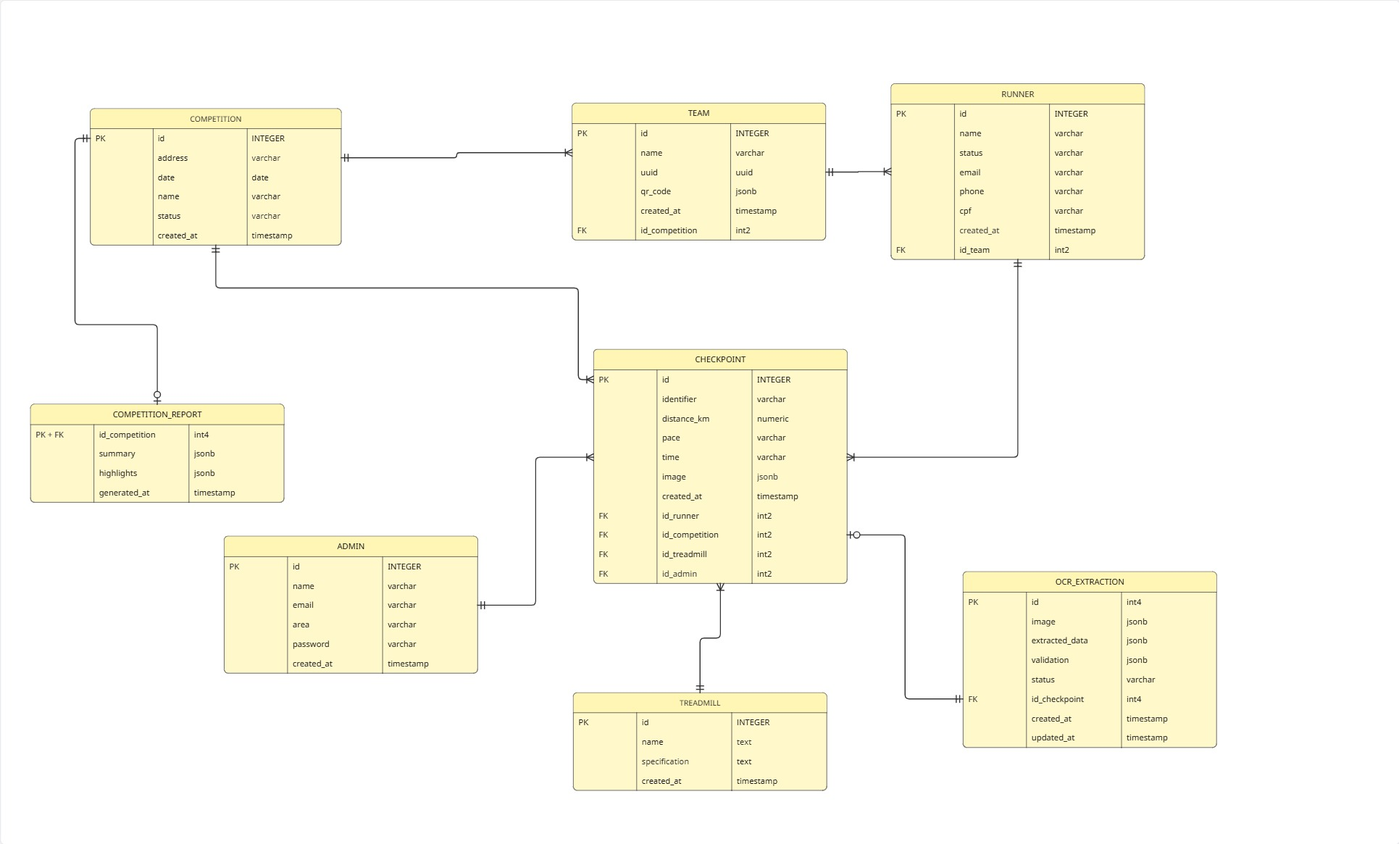
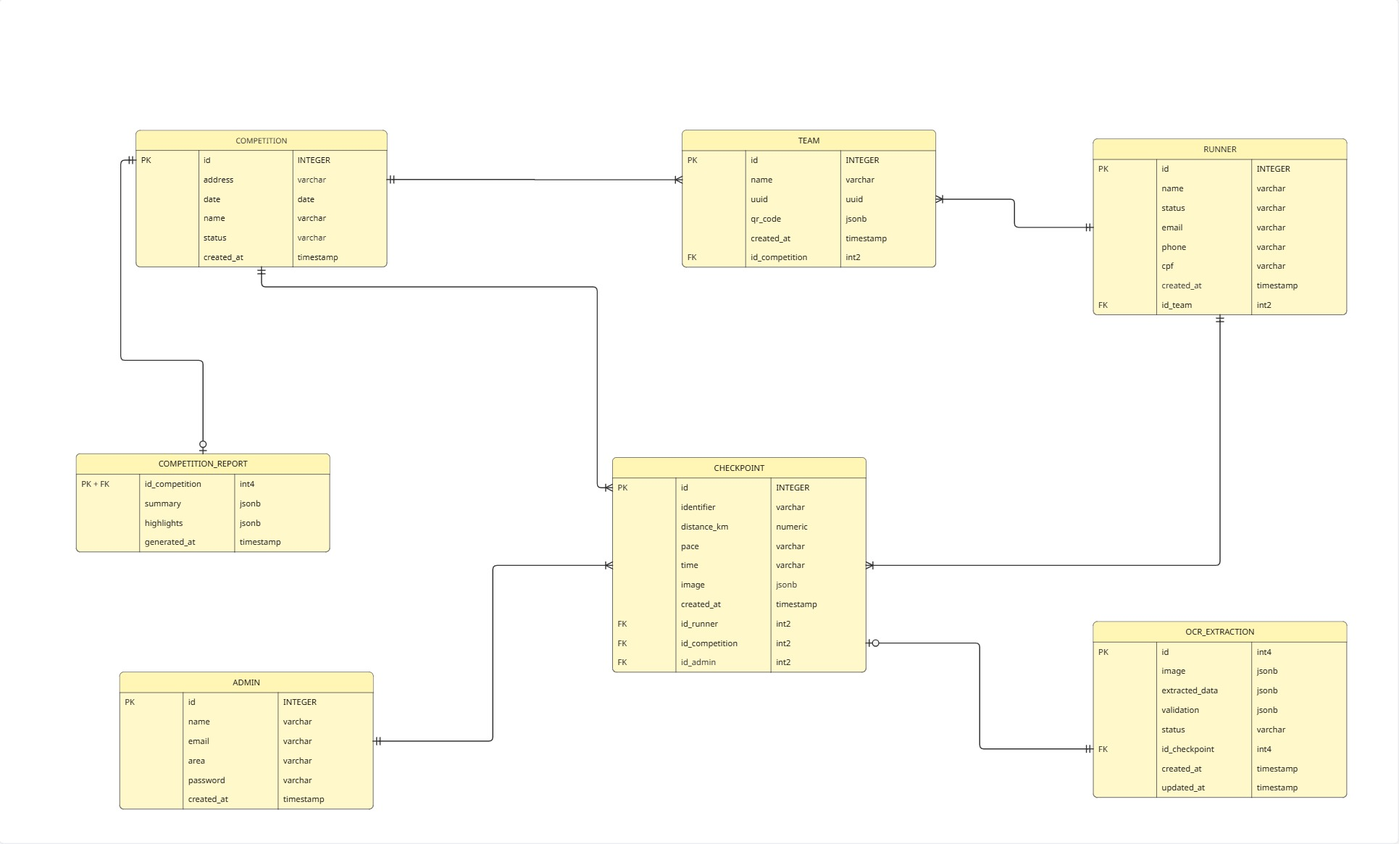
docs(#545): Retira entidade Treadmill
Esse commit tem como objetivo retirar a entidade treadmill das seções 3.6.1, 3.6.2, 3.6.3.1 e 3.6.3.2, que apesar de ter um backend implemenado, funcionava até o momento como uma entidade fantasma, que não havia de fato uma função no sistema

Refs #545

diff --git a/documentos/wad.md b/documentos/wad.md
@@ -2225,7 +2225,7 @@ O relacionamento entre entidades é feito por meio de uma linha que contém as c
 | -------- | --------- | --------- |  
 | 1:1 | Um para Um | Cada Team possui exatamente um UUID de acesso |
 | 1:N | Um para Muitos | Uma Competition possui vários Teams, mas cada Team pertence a uma única Competition |
-| N:N | Muitos para Muitos | No modelo conceitual, `Runner` e `Treadmill` se relacionam N:N (cada corredor usa várias esteiras ao longo das 24h e cada esteira recebe vários corredores). No modelo lógico, essa relação é materializada na entidade associativa `Checkpoint`, com atributos próprios (`distance_km`, `pace`, `time`) |
+| N:N | Muitos para Muitos | No modelo conceitual, Admin e Runner se relacionam N:N (um administrador registra checkpoints de vários corredores e cada corredor pode ter registros de vários administradores). No modelo lógico, essa relação é materializada na entidade associativa Checkpoint, com atributos próprios (distance_km, pace, time) |
 
 <div align="center">
   <sup>Fonte: Elaborado pelos autores (2026).</sup>
@@ -2238,8 +2238,6 @@ A seguir, a Figura 57 ilustra o Modelo Entidade-Relacionamento desenvolvido para
     <img src="../assets/modelo_er.png" width="100%" alt="Representação do Modelo Entidade Relacionamento"><br>
       <sup>Fonte: Elaborado pelos autores (2026).</sup>
 </div> 
-
-**Observação sobre o diagrama:** por limitação da ferramenta de origem, a figura acima reflete o núcleo conceitual com seis entidades. Em caso de divergência visual, prevalecem os nomes do dicionário de dados e da implementação física (Seção 3.6.3): `address` (grafia correta de "adress"), `phone` (em vez de "phone_number"), `Runner` e `Admin`. Além dessas seis entidades, o modelo contempla `OcrExtraction` e `CompetitionReport`, descritas no dicionário de dados a seguir (Quadros 38A e 38B) e representadas no Modelo Relacional (Seção 3.6.3.1).
 
 
 #### Descrição das entidades e relacionamentos
@@ -2255,9 +2253,8 @@ A seguir, o Quadro 26 apresenta cada entidade, seu papel e os relacionamentos qu
 | Competition | Representa o evento Red Bull 24h, raiz do modelo | Possui N Teams (1:N); possui N Checkpoints (1:N) |
 | Team | Agrupa corredores de uma mesma competição | Pertence a 1 Competition (obrigatório); possui N Runners (1:N) |
 | Runner | Corredor participante vinculado a uma equipe | Pertence a 1 Team (obrigatório); possui N Checkpoints (1:N) |
-| Checkpoint | Registro de desempenho do corredor na esteira | Pertence obrigatoriamente a 1 Runner, 1 Competition, 1 Treadmill e 1 Admin (todas as associações são obrigatórias) |
+| Checkpoint | Registro de desempenho do corredor durante a prova | Pertence obrigatoriamente a 1 Runner, 1 Competition e 1 Admin (todas as associações são obrigatórias) |
 | Admin | Operador responsável por registrar checkpoints | Possui N Checkpoints (1:N) |
-| Treadmill | Esteira onde a corrida é realizada | Possui N Checkpoints (1:N) |
 | OcrExtraction | Armazena imagens e dados extraídos por OCR para validação | Pertence opcionalmente a 1 Checkpoint (0..1) |
 | CompetitionReport | Relatório consolidado e highlights da competição | Pertence a 1 Competition (relação 1:1) |
 
@@ -2276,7 +2273,7 @@ A seguir, o Quadro 32 exemplifica os elementos da notação de Chen utilizados n
 
 | Elemento |  Símbolo  | Aplicação ao MER |
 | -------- | --------- | ---------------- |
-| Entidade | Retângulo | `Competition`, `Team`, `Runner`, `Checkpoint`, `Admin` e `Treadmill` |
+| Entidade | Retângulo | `Competition`, `Team`, `Runner`, `Checkpoint` e `Admin` |
 | Atributo | Elipse    | `address` em `Competition`, `cpf` em `Runner` |
 | Relacionamento | Losango | `Team` possui `Runner` |
 | Cardinalidade | 1, N nas arestas | Um `Runner` possui N `Checkpoints` |
@@ -2364,7 +2361,6 @@ Por meio de quadros, serão detalhadas todas as entidades, listando seus atribut
 | Checkpoint | `image` | JSONB | Não | — | Foto ou metadados da evidência capturada |
 | Checkpoint | `id_runner` | Chave estrangeira | Sim | FK → `Runner` (ON DELETE RESTRICT) | Vincula o checkpoint ao corredor |
 | Checkpoint | `id_competition` | Chave estrangeira | Sim | FK → `Competition` (ON DELETE RESTRICT) | Vincula o checkpoint à competição |
-| Checkpoint | `id_treadmill` | Chave estrangeira | Sim | FK → `Treadmill` (ON DELETE RESTRICT) | Vincula o checkpoint à esteira |
 | Checkpoint | `id_admin` | Chave estrangeira | Sim | FK → `Admin` (ON DELETE RESTRICT) | Vincula o checkpoint ao admin responsável |
 | Checkpoint | `created_at` | Data/Hora | Sim | Padrão: data/hora atual | Data e horário em que o registro foi inserido no sistema |
 
@@ -2386,23 +2382,6 @@ Por meio de quadros, serão detalhadas todas as entidades, listando seus atribut
 | Admin | `area` | Texto | Não | — | Área de atuação do admin |
 | Admin | `password` | Texto (hash) | Sim | — | Hash da credencial de acesso ao painel administrativo (a senha em texto puro nunca é armazenada) |
 | Admin | `created_at` | Data/Hora | Sim | Padrão: data/hora atual | Data e horário em que o registro foi inserido no sistema |
-
-<div align="center">
-  <sup>Fonte: Elaborado pelos autores (2026).</sup>
-</div> 
-
-- O Quadro 38 representa o dicionário de dados da entidade Esteira.
-
-<div align="center">
-  <sub>Quadro 38 - Dicionário de Dados da Entidade Esteira </sub>
-</div>
-
-| Entidade | Atributo | Tipo semântico | Obrigatório | Restrições / Chave | Descrição |
-| -------- | --------- | -------------- | ----------- | ------------------ | --------- |
-| Treadmill | `id` | Identificador | Sim | Chave primária (PK) | Identifica unicamente cada esteira |
-| Treadmill | `name` | Texto | Sim | CHECK: não vazio | Nome ou apelido da esteira |
-| Treadmill | `specification` | Texto | Não | — | Descrição técnica do equipamento |
-| Treadmill | `created_at` | Data/Hora | Sim | Padrão: data/hora atual | Data e horário em que o registro foi inserido no sistema |
 
 <div align="center">
   <sup>Fonte: Elaborado pelos autores (2026).</sup>
@@ -2454,7 +2433,7 @@ Além dos atributos, o modelo é governado por regras de integridade definidas n
 
 - **Unicidade:** os atributos `email` e `cpf` de `Runner`, `email` de `Admin`, `uuid` de `Team` e `identifier` de `Checkpoint` são únicos, impedindo registros duplicados.
 - **Domínios restritos (CHECK):** `status` de `Competition` aceita apenas `not_started`, `in_progress` ou `closed`; `status` de `Runner` aceita apenas `runner` ou `captain`; `status` de `OcrExtraction` aceita apenas `pending`, `processed`, `validated` ou `rejected`; `distance_km` deve estar entre 0 e 1000; `cpf`, `email`, `pace` e `time` seguem formatos pré-definidos.
-- **Obrigatoriedade das associações:** as chaves estrangeiras são, em regra, de preenchimento obrigatório, o que torna total a participação das entidades nos relacionamentos — todo `Team` pertence a uma `Competition`, todo `Runner` a um `Team` e todo `Checkpoint` a um `Runner`, uma `Competition`, uma `Treadmill` e um `Admin`. A única exceção é a associação de `OcrExtraction` com `Checkpoint`, opcional, pois `id_checkpoint` aceita valor nulo.
+- **Obrigatoriedade das associações:** as chaves estrangeiras são, em regra, de preenchimento obrigatório, o que torna total a participação das entidades nos relacionamentos — todo `Team` pertence a uma `Competition`, todo `Runner` a um `Team` e todo `Checkpoint` a um `Runner`, uma `Competition` e um `Admin`. A única exceção é a associação de `OcrExtraction` com `Checkpoint`, opcional, pois `id_checkpoint` aceita valor nulo.
 - **Integridade referencial:** em regra, não é permitido excluir um registro que ainda possua dependentes (ON DELETE RESTRICT) — por exemplo, uma `Competition` não pode ser removida enquanto houver `Teams` ou `Checkpoints` vinculados a ela. Há duas exceções intencionais: um `CompetitionReport` é removido em cascata junto com sua `Competition` (ON DELETE CASCADE) e a exclusão de um `Checkpoint` apenas anula o vínculo da extração OCR, sem removê-la (ON DELETE SET NULL).
 
 
@@ -2473,7 +2452,6 @@ A seguir, o Quadro 39 apresenta a rastreabilidade entre as entidades criadas com
 | Runner | RF003 | RN07 | 
 | Checkpoint | RF005, RF008 | RN04, RN05, RN12 |
 | Admin | RF004 | RN03 |
-| Treadmill | RF005 | — |
 | OcrExtraction | RF005, RF006, RF007, RF009 | RN05, RN06 |
 | CompetitionReport | RF014 | — |
 
@@ -2537,10 +2515,9 @@ Por meio dessa representação, é possível identificar de forma clara relaçõ
 | 2 | TEAM | RUNNER | 1 equipe tem muitos corredores (1:N) | Muitos corredores pertencem a 1 única equipe (N:1) |
 | 3 | RUNNER | CHECKPOINT | 1 corredor possui muitos checkpoints (1:N) | Muitos checkpoints pertencem a 1 único corredor (N:1) |
 | 4 | ADMIN | CHECKPOINT | 1 administrador supervisiona muitos checkpoints (1:N) | Muitos checkpoints são supervisionados por 1 único administrador (N:1) |
-| 5 | TREADMILL | CHECKPOINT | 1 esteira é usada em muitos checkpoints (1:N) | Muitos checkpoints usam 1 única esteira (N:1) |
-| 6 | COMPETITION | CHECKPOINT | 1 competição possui muitos checkpoints (1:N) | Muitos checkpoints pertencem a 1 única competição (N:1) |
-| 7 | CHECKPOINT | OCR_EXTRACTION | 1 checkpoint pode originar muitas extrações OCR (1:N, opcional) | Cada extração referencia no máximo 1 checkpoint (N:0..1) |
-| 8 | COMPETITION | COMPETITION_REPORT | 1 competição possui no máximo 1 relatório (1:0..1) | Cada relatório pertence a exatamente 1 competição (1:1) |
+| 5 | COMPETITION | CHECKPOINT | 1 competição possui muitos checkpoints (1:N) | Muitos checkpoints pertencem a 1 única competição (N:1) |
+| 6 | CHECKPOINT | OCR_EXTRACTION | 1 checkpoint pode originar muitas extrações OCR (1:N, opcional) | Cada extração referencia no máximo 1 checkpoint (N:0..1) |
+| 7 | COMPETITION | COMPETITION_REPORT | 1 competição possui no máximo 1 relatório (1:0..1) | Cada relatório pertence a exatamente 1 competição (1:1) |
 
 <div align="center">
   <sup>Fonte: Elaborado pelos autores (2026).</sup>
@@ -2558,12 +2535,10 @@ Por meio dessa representação, é possível identificar de forma clara relaçõ
 | Classe `Runner`                                  | Tabela `RUNNER`                     |
 | Classe `Admin`                               | Tabela `ADMIN`                |
 | Classe `Checkpoint`                                         | Tabela `CHECKPOINT`                   |
-| Classe `Treadmill`                                            | Tabela `TREADMILL`                      |
 | Associação `Competition` possui `Team`                     | FK `id_competition` em `TEAM`        |
 | Associação `Team` possui `Runner`                       | FK `id_team` em `RUNNER`          |
 | Associação `Runner` registra `Checkpoint`                 | FK `id_runner` em `CHECKPOINT`      |
 | Associação `Competition` possui `Checkpoint`                 | FK `id_competition` em `CHECKPOINT`    |
-| Associação `Treadmill` é usada em `Checkpoint`                | FK `id_treadmill` em `CHECKPOINT`       |
 | Associação `Admin` valida/supervisiona `Checkpoint` | FK `id_admin` em `CHECKPOINT` |
 | Classe/serviço `OCR` (OCRService / `Validação`)              | Tabela `OCR_EXTRACTION`               |
 | Associação `Checkpoint` origina `OcrExtraction`              | FK `id_checkpoint` em `OCR_EXTRACTION` |
@@ -2579,7 +2554,7 @@ Por meio dessa representação, é possível identificar de forma clara relaçõ
 
 O modelo relacional consiste em uma abordagem de organização e gerenciamento de dados baseada na representação das informações por meio de relações, normalmente implementadas como tabelas compostas por linhas e colunas. Esse modelo possibilita a definição de entidades, atributos e relacionamentos, além de mecanismos que garantem integridade, consistência e redução de redundâncias no armazenamento das informações. Sua estrutura fundamenta-se em conceitos como chaves primárias, chaves estrangeiras e restrições de integridade, permitindo representar de forma estruturada as regras de negócio de um sistema (Codd, 1970).
 
-No contexto deste projeto, o modelo relacional foi desenvolvido a partir dos requisitos funcionais e das regras de negócio levantadas nas etapas anteriores, com o objetivo de estruturar o armazenamento das informações referentes às competições, equipes, corredores, esteiras, registros de desempenho e processos de auditoria. A modelagem proposta busca garantir integridade referencial, rastreabilidade das operações e escalabilidade para futuras evoluções do sistema.
+No contexto deste projeto, o modelo relacional foi desenvolvido a partir dos requisitos funcionais e das regras de negócio levantadas nas etapas anteriores, com o objetivo de estruturar o armazenamento das informações referentes às competições, equipes, corredores, registros de desempenho e processos de auditoria. A modelagem proposta busca garantir integridade referencial, rastreabilidade das operações e escalabilidade para futuras evoluções do sistema.
 
 #### 3.6.3.1 Modelo Relacional
 
@@ -2602,14 +2577,12 @@ A tabela `team` registra os grupos participantes vinculados a uma competição e
 **Tabela `runner`**  
 A tabela `runner` armazena os dados cadastrais dos participantes, incluindo nome, email, telefone e CPF, além de um campo `status` que representa o papel do corredor na equipe (`runner` para corredor comum ou `captain` para capitão). Por meio da chave estrangeira `id_team`, cada corredor é associado à sua respectiva equipe.
 
-**Tabela `treadmill`**  
-A tabela `treadmill` representa os equipamentos utilizados durante a coleta das métricas de desempenho dos participantes, armazenando informações que permitem identificar individualmente cada dispositivo utilizado durante a competição.
 
 **Tabela `admin`**  
 A tabela `admin` armazena os dados dos usuários responsáveis pela gestão operacional da plataforma, incluindo nome, email (único, utilizado na autenticação), área de atuação e o hash da senha de acesso, garantindo identificação, autenticação e rastreabilidade temporal.
 
 **Tabela `checkpoint`**  
-A tabela `checkpoint` centraliza os registros operacionais das corridas, armazenando um identificador único de registro, métricas de desempenho e evidências capturadas pelo sistema. Além disso, essa entidade mantém relacionamento com as tabelas `runner`, `competition`, `treadmill` e `admin`, permitindo rastrear a origem, o contexto e a validação administrativa associada a cada registro.
+A tabela `checkpoint` centraliza os registros operacionais das corridas, armazenando um identificador único de registro, métricas de desempenho e evidências capturadas pelo sistema. Além disso, essa entidade mantém relacionamento com as tabelas `runner`, `competition` e `admin`, permitindo rastrear a origem, o contexto e a validação administrativa associada a cada registro.
 
 **Tabela `ocr_extraction`**  
 A tabela `ocr_extraction` dá suporte ao processo de extração automática de dados a partir de imagens (OCR), armazenando a imagem submetida, os dados extraídos, o resultado da validação e o status do processamento (`pending`, `processed`, `validated` ou `rejected`). Vincula-se opcionalmente a um `checkpoint` por meio da chave estrangeira `id_checkpoint`.
@@ -2627,7 +2600,6 @@ Os relacionamentos entre as entidades foram definidos por meio de chaves primár
 - uma `team` pode possuir múltiplos `runners` *(1:N)*;
 - um `runner` pode gerar múltiplos `checkpoints` *(1:N)*;
 - uma `competition` pode possuir múltiplos `checkpoints` *(1:N)*;
-- uma `treadmill` pode estar associada a múltiplos `checkpoints` *(1:N)*;
 - um `admin` pode validar múltiplos `checkpoints` *(1:N)*;
 - um `checkpoint` pode originar múltiplas `ocr_extractions` *(1:N, opcional)* — a associação é opcional, pois `id_checkpoint` aceita valor nulo;
 - uma `competition` possui no máximo um `competition_report` *(1:1)*.
@@ -2645,7 +2617,7 @@ As constraints do modelo relacional definem as regras de integridade que serão 
 | `competition_report` | `PRIMARY KEY` | `id_competition` | Usa a própria chave estrangeira como chave primária, materializando a relação 1:1 com `competition`. |
 | `team` | `FOREIGN KEY` | `id_competition` | Indica que cada equipe pertence a uma competição. |
 | `runner` | `FOREIGN KEY` | `id_team` | Indica que cada corredor pertence a uma equipe. |
-| `checkpoint` | `FOREIGN KEY` | `id_runner`, `id_competition`, `id_treadmill`, `id_admin` | Indica que cada checkpoint deve estar associado a um corredor, uma competição, uma esteira e um administrador. |
+| `checkpoint` | `FOREIGN KEY` | `id_runner`, `id_competition` e `id_admin` | Indica que cada checkpoint deve estar associado a um corredor, uma competição e um administrador. |
 | `ocr_extraction` | `FOREIGN KEY` | `id_checkpoint` | Vincula a extração a um checkpoint (associação opcional, `ON DELETE SET NULL`). |
 | `competition_report` | `FOREIGN KEY` | `id_competition` | Vincula o relatório a uma competição (`ON DELETE CASCADE`). |
 | `team` | `UNIQUE` | `uuid` | Define que o identificador público da equipe não pode se repetir. |
@@ -2655,7 +2627,6 @@ As constraints do modelo relacional definem as regras de integridade que serão 
 | `competition` | `CHECK` | `status`, `name`, `date` | Restringe o status aos valores previstos, impede nome vazio e exige data ≥ 01/01/2020. |
 | `runner` | `CHECK` | `status`, `name`, `cpf`, `email` | Limita o papel do participante, impede nome vazio e valida os formatos de CPF e e-mail. |
 | `team` | `CHECK` | `name` | Impede o cadastro de equipe com nome vazio. |
-| `treadmill` | `CHECK` | `name` | Impede o cadastro de esteira com nome vazio. |
 | `admin` | `CHECK` | `name`, `email` | Impede nome vazio e valida o formato do e-mail. |
 | `checkpoint` | `CHECK` | `distance_km`, `pace`, `time` | Impede valores de distância fora da faixa (0 a 1000) e valida os formatos de ritmo e tempo. |
 | `ocr_extraction` | `CHECK` | `status` | Limita o status do processamento aos valores `pending`, `processed`, `validated` e `rejected`. |
@@ -2769,22 +2740,6 @@ CREATE INDEX idx_runner_cpf     ON runner (cpf);
  A tabela **`runner`** depende de **`team`** por meio da chave estrangeira `id_team` (`ON UPDATE CASCADE` / `ON DELETE RESTRICT`). Os campos **`cpf`** e **`email`** possuem restrição `UNIQUE`, impedindo o cadastro de dois participantes com os mesmos dados de identificação, e ambos são validados por constraints de formato: `ck_runner_cpf_format` exige a máscara `000.000.000-00` e `ck_runner_email_format` valida a estrutura de um endereço de e-mail. O `cpf` é armazenado como `VARCHAR(14)` para comportar o formato com máscara. O campo **`status`** recebe `DEFAULT 'runner'` e é restringido pela constraint `ck_runner_status` aos valores `runner` e `captain`, diferenciando participantes comuns dos responsáveis (capitães) pela equipe. O campo **`name`** é protegido contra valores vazios, e o campo **`phone`** é opcional (`NULL`). São criados dois índices: um sobre `id_team`, para otimizar junções, e outro sobre `cpf`, para acelerar buscas por identificação.
  
 
-##### Tabela `treadmill` (`0004_create_treadmill.sql`)
-
-```sql
-CREATE TABLE treadmill (
-    id             INTEGER    NOT NULL GENERATED ALWAYS AS IDENTITY,
-    name           TEXT       NOT NULL,
-    specification  TEXT       NULL,
-    created_at     TIMESTAMP  NOT NULL DEFAULT NOW(),
-
-    CONSTRAINT pk_treadmill PRIMARY KEY (id),
-    CONSTRAINT ck_treadmill_name_not_empty
-        CHECK (length(trim(name)) > 0)
-);
-```
- 
-A tabela **`treadmill`** não possui chaves estrangeiras e pode ser criada de forma independente. Os campos **`name`** e **`specification`** utilizam o tipo `TEXT`, adequado para descrições sem limite de comprimento predefinido; o `name` é protegido contra valores vazios pela constraint `ck_treadmill_name_not_empty`. O campo **`specification`** é opcional (`NULL`), pois nem todos os equipamentos exigem detalhamento técnico no momento do cadastro.
 
 ##### Tabela `admin` (`0005_create_admin.sql`)
 
@@ -2820,7 +2775,6 @@ CREATE TABLE checkpoint (
     image           JSONB         NULL,
     id_runner       INTEGER       NOT NULL,
     id_competition  INTEGER       NOT NULL,
-    id_treadmill    INTEGER       NOT NULL,
     id_admin        INTEGER       NOT NULL,
     created_at      TIMESTAMP     NOT NULL DEFAULT NOW(),
 
@@ -2840,10 +2794,6 @@ CREATE TABLE checkpoint (
         FOREIGN KEY (id_competition) REFERENCES competition (id)
         ON UPDATE CASCADE
         ON DELETE RESTRICT,
-    CONSTRAINT fk_checkpoint_id_treadmill
-        FOREIGN KEY (id_treadmill) REFERENCES treadmill (id)
-        ON UPDATE CASCADE
-        ON DELETE RESTRICT,
     CONSTRAINT fk_checkpoint_id_admin
         FOREIGN KEY (id_admin) REFERENCES admin (id)
         ON UPDATE CASCADE
@@ -2852,12 +2802,11 @@ CREATE TABLE checkpoint (
 
 CREATE INDEX idx_checkpoint_id_runner      ON checkpoint (id_runner);
 CREATE INDEX idx_checkpoint_id_competition ON checkpoint (id_competition);
-CREATE INDEX idx_checkpoint_id_treadmill   ON checkpoint (id_treadmill);
 CREATE INDEX idx_checkpoint_id_admin       ON checkpoint (id_admin);
 CREATE INDEX idx_checkpoint_created_at     ON checkpoint (created_at);
 ```
  
-A tabela **`checkpoint`** é a entidade central do sistema operacional, pois concentra quatro chaves estrangeiras: `id_runner`, `id_competition`, `id_treadmill` e `id_admin`, todas obrigatórias e definidas com `ON UPDATE CASCADE` / `ON DELETE RESTRICT`. Por depender de quatro tabelas, é a última das entidades principais a ser criada. O campo **`identifier`** possui restrição `UNIQUE` (`uq_checkpoint_identifier`), garantindo a rastreabilidade individual de cada registro operacional. O campo **`distance_km`** utiliza o tipo `NUMERIC(6, 3)`, que suporta até três casas decimais de precisão (adequado para distâncias como `42,195 km`), e é validado pela constraint `ck_checkpoint_distance_km`, que assegura valores entre 0 e 1000. Os campos **`pace`** e **`time`** são armazenados como `VARCHAR` e são opcionais; quando preenchidos, são validados por constraints de formato (`mm:ss/km` e `hh:mm:ss`, respectivamente), construídas com a condição `IS NULL OR ...` para permitir o valor nulo sem violar a regra. O campo **`image`** é definido como `JSONB` para armazenar metadados ou referências das evidências capturadas no ponto de controle. O campo **`id_admin`** registra qual usuário administrativo foi responsável pelo checkpoint, refletindo a relação *1:N* entre administrador e checkpoints. São criados cinco índices: quatro sobre as chaves estrangeiras, para otimizar junções, e um sobre `created_at`, para acelerar relatórios cronológicos de desempenho.
+A tabela **`checkpoint`** é a entidade central do sistema operacional, pois concentra três chaves estrangeiras: `id_runner`, `id_competition` e `id_admin`, todas obrigatórias e definidas com `ON UPDATE CASCADE` / `ON DELETE RESTRICT`. Por depender de três tabelas, é a última das entidades principais a ser criada. O campo **`identifier`** possui restrição `UNIQUE` (`uq_checkpoint_identifier`), garantindo a rastreabilidade individual de cada registro operacional. O campo **`distance_km`** utiliza o tipo `NUMERIC(6, 3)`, que suporta até três casas decimais de precisão (adequado para distâncias como `42,195 km`), e é validado pela constraint `ck_checkpoint_distance_km`, que assegura valores entre 0 e 1000. Os campos **`pace`** e **`time`** são armazenados como `VARCHAR` e são opcionais; quando preenchidos, são validados por constraints de formato (`mm:ss/km` e `hh:mm:ss`, respectivamente), construídas com a condição `IS NULL OR ...` para permitir o valor nulo sem violar a regra. O campo **`image`** é definido como `JSONB` para armazenar metadados ou referências das evidências capturadas no ponto de controle. O campo **`id_admin`** registra qual usuário administrativo foi responsável pelo checkpoint, refletindo a relação *1:N* entre administrador e checkpoints. São criados quatro índices: três sobre as chaves estrangeiras, para otimizar junções, e um sobre `created_at`, para acelerar relatórios cronológicos de desempenho.
 
 ##### Tabela `ocr_extraction` (`0007_create_ocr_extraction.sql`)
 
@@ -2908,7 +2857,7 @@ A tabela **`competition_report`** armazena o relatório consolidado de cada comp
 
 ##### Considerações gerais sobre a implementação
  
-A implementação física foi organizada em **migrations sequenciais e versionadas** (`0000` a `0008`), executadas na ordem de dependência entre as tabelas: primeiro as extensões, depois as entidades independentes (`competition`, `treadmill`, `admin`) e, por fim, as entidades dependentes (`team`, `runner`, `checkpoint`, `ocr_extraction`, `competition_report`). Adotou-se a convenção de **nomear explicitamente todas as constraints** segundo seu tipo — `pk_` (*primary key*), `uq_` (*unique*), `ck_` (*check*) e `fk_` (*foreign key*) —, o que torna as mensagens de erro do banco autoexplicativas e facilita a manutenção e a evolução do esquema.
+A implementação física foi organizada em **migrations sequenciais e versionadas** (`0000` a `0008`), executadas na ordem de dependência entre as tabelas: primeiro as extensões, depois as entidades independentes (`competition` e `admin`) e, por fim, as entidades dependentes (`team`, `runner`, `checkpoint`, `ocr_extraction`, `competition_report`). Adotou-se a convenção de **nomear explicitamente todas as constraints** segundo seu tipo — `pk_` (*primary key*), `uq_` (*unique*), `ck_` (*check*) e `fk_` (*foreign key*) —, o que torna as mensagens de erro do banco autoexplicativas e facilita a manutenção e a evolução do esquema.
 
 Todos os campos de identificação seguem o tipo `INTEGER` com geração automática por `GENERATED ALWAYS AS IDENTITY`. As chaves estrangeiras, em regra, adotam `ON UPDATE CASCADE` e `ON DELETE RESTRICT`, preservando a integridade referencial ao bloquear a exclusão de registros que ainda possuam dependentes — com duas exceções intencionais: `ocr_extraction` usa `ON DELETE SET NULL` (para preservar o histórico de extração) e `competition_report` usa `ON DELETE CASCADE` (por ser dependente exclusivo da competição). Os campos de auditoria temporal (`created_at`, `updated_at`, `generated_at`) são preenchidos automaticamente via `DEFAULT NOW()`, garantindo rastreabilidade histórica sem exigir intervenção da aplicação. A implementação completa e executável encontra-se nos arquivos de migração disponíveis no [diretório de migrações](outros/migrations/) do repositório.
 
